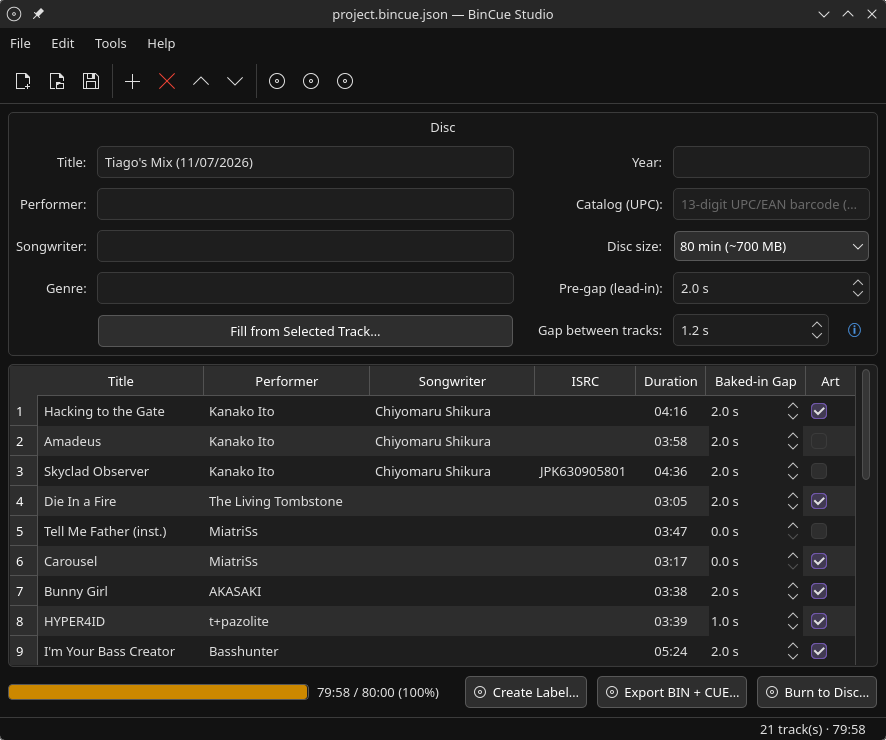
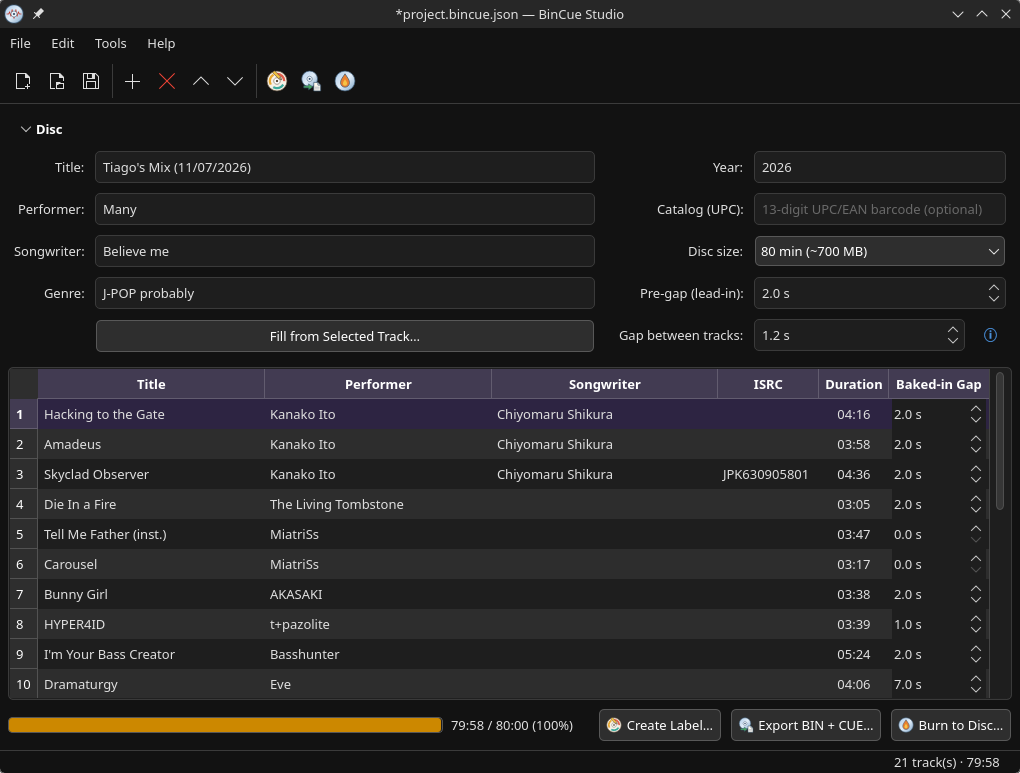
Make the disc info panel a collapsible section
Replace the Disc group box with a framed section headed by a flat
arrow-toggle button; clicking it folds the form away to give the track
table more room. The expanded/collapsed state persists across sessions
via QSettings. Refresh gallery screenshots.

diff --git a/src/mainwindow.cpp b/src/mainwindow.cpp
@@ -10,6 +10,7 @@
 #include <QFileDialog>
 #include <QFileInfo>
 #include <QFormLayout>
+#include <QFrame>
 #include <QGridLayout>
 #include <QGroupBox>
 #include <QHBoxLayout>
@@ -265,9 +266,32 @@ void MainWindow::buildUi()
     root->setContentsMargins(8, 8, 8, 8);
     root->setSpacing(8);
 
-    // Disc info: two compact form columns instead of one tall form.
-    auto *discGroup = new QGroupBox(tr("Disc"));
-    auto *discGrid = new QGridLayout(discGroup);
+    // Disc info: two compact form columns instead of one tall form. Wrapped in
+    // a collapsible section — a framed card with a flat header button carrying a
+    // disclosure arrow (▾/▸); pressing it folds the body away to give the track
+    // table more room.
+    auto *discSection = new QFrame;
+    discSection->setFrameShape(QFrame::StyledPanel);
+    auto *discOuter = new QVBoxLayout(discSection);
+    discOuter->setContentsMargins(0, 0, 0, 0);
+    discOuter->setSpacing(0);
+
+    auto *discToggle = new QToolButton;
+    discToggle->setText(tr("Disc"));
+    discToggle->setCheckable(true);
+    discToggle->setAutoRaise(true);
+    discToggle->setArrowType(Qt::DownArrow);
+    discToggle->setToolButtonStyle(Qt::ToolButtonTextBesideIcon);
+    discToggle->setSizePolicy(QSizePolicy::Expanding, QSizePolicy::Fixed);
+    discToggle->setCursor(Qt::PointingHandCursor);
+    discToggle->setStyleSheet(QStringLiteral(
+        "QToolButton { border: none; font-weight: bold; padding: 6px 8px; "
+        "text-align: left; }"));
+    discOuter->addWidget(discToggle);
+
+    auto *discBody = new QWidget;
+    discOuter->addWidget(discBody);
+    auto *discGrid = new QGridLayout(discBody);
     auto *leftForm = new QFormLayout;
     auto *rightForm = new QFormLayout;
     leftForm->setFieldGrowthPolicy(QFormLayout::AllNonFixedFieldsGrow);
@@ -383,7 +407,22 @@ void MainWindow::buildUi()
     rightForm->addRow(tr("Pre-gap (lead-in):"), pregapRow);
     rightForm->addRow(tr("Gap between tracks:"), gapRow);
 
-    root->addWidget(discGroup);
+    root->addWidget(discSection);
+
+    // Restore the collapsed/expanded state from the previous session and keep
+    // it in sync. Toggling the header button folds the body and flips the arrow
+    // between ▾ (expanded) and ▸ (collapsed).
+    const bool discExpanded =
+        m_settings.value(QStringLiteral("discInfoExpanded"), true).toBool();
+    discToggle->setChecked(discExpanded);
+    discBody->setVisible(discExpanded);
+    discToggle->setArrowType(discExpanded ? Qt::DownArrow : Qt::RightArrow);
+    connect(discToggle, &QToolButton::toggled, this,
+            [this, discToggle, discBody](bool on) {
+                discBody->setVisible(on);
+                discToggle->setArrowType(on ? Qt::DownArrow : Qt::RightArrow);
+                m_settings.setValue(QStringLiteral("discInfoExpanded"), on);
+            });
 
     // Mark the project dirty on any user edit to the disc info. textEdited
     // (unlike textChanged) only fires for user input, not programmatic